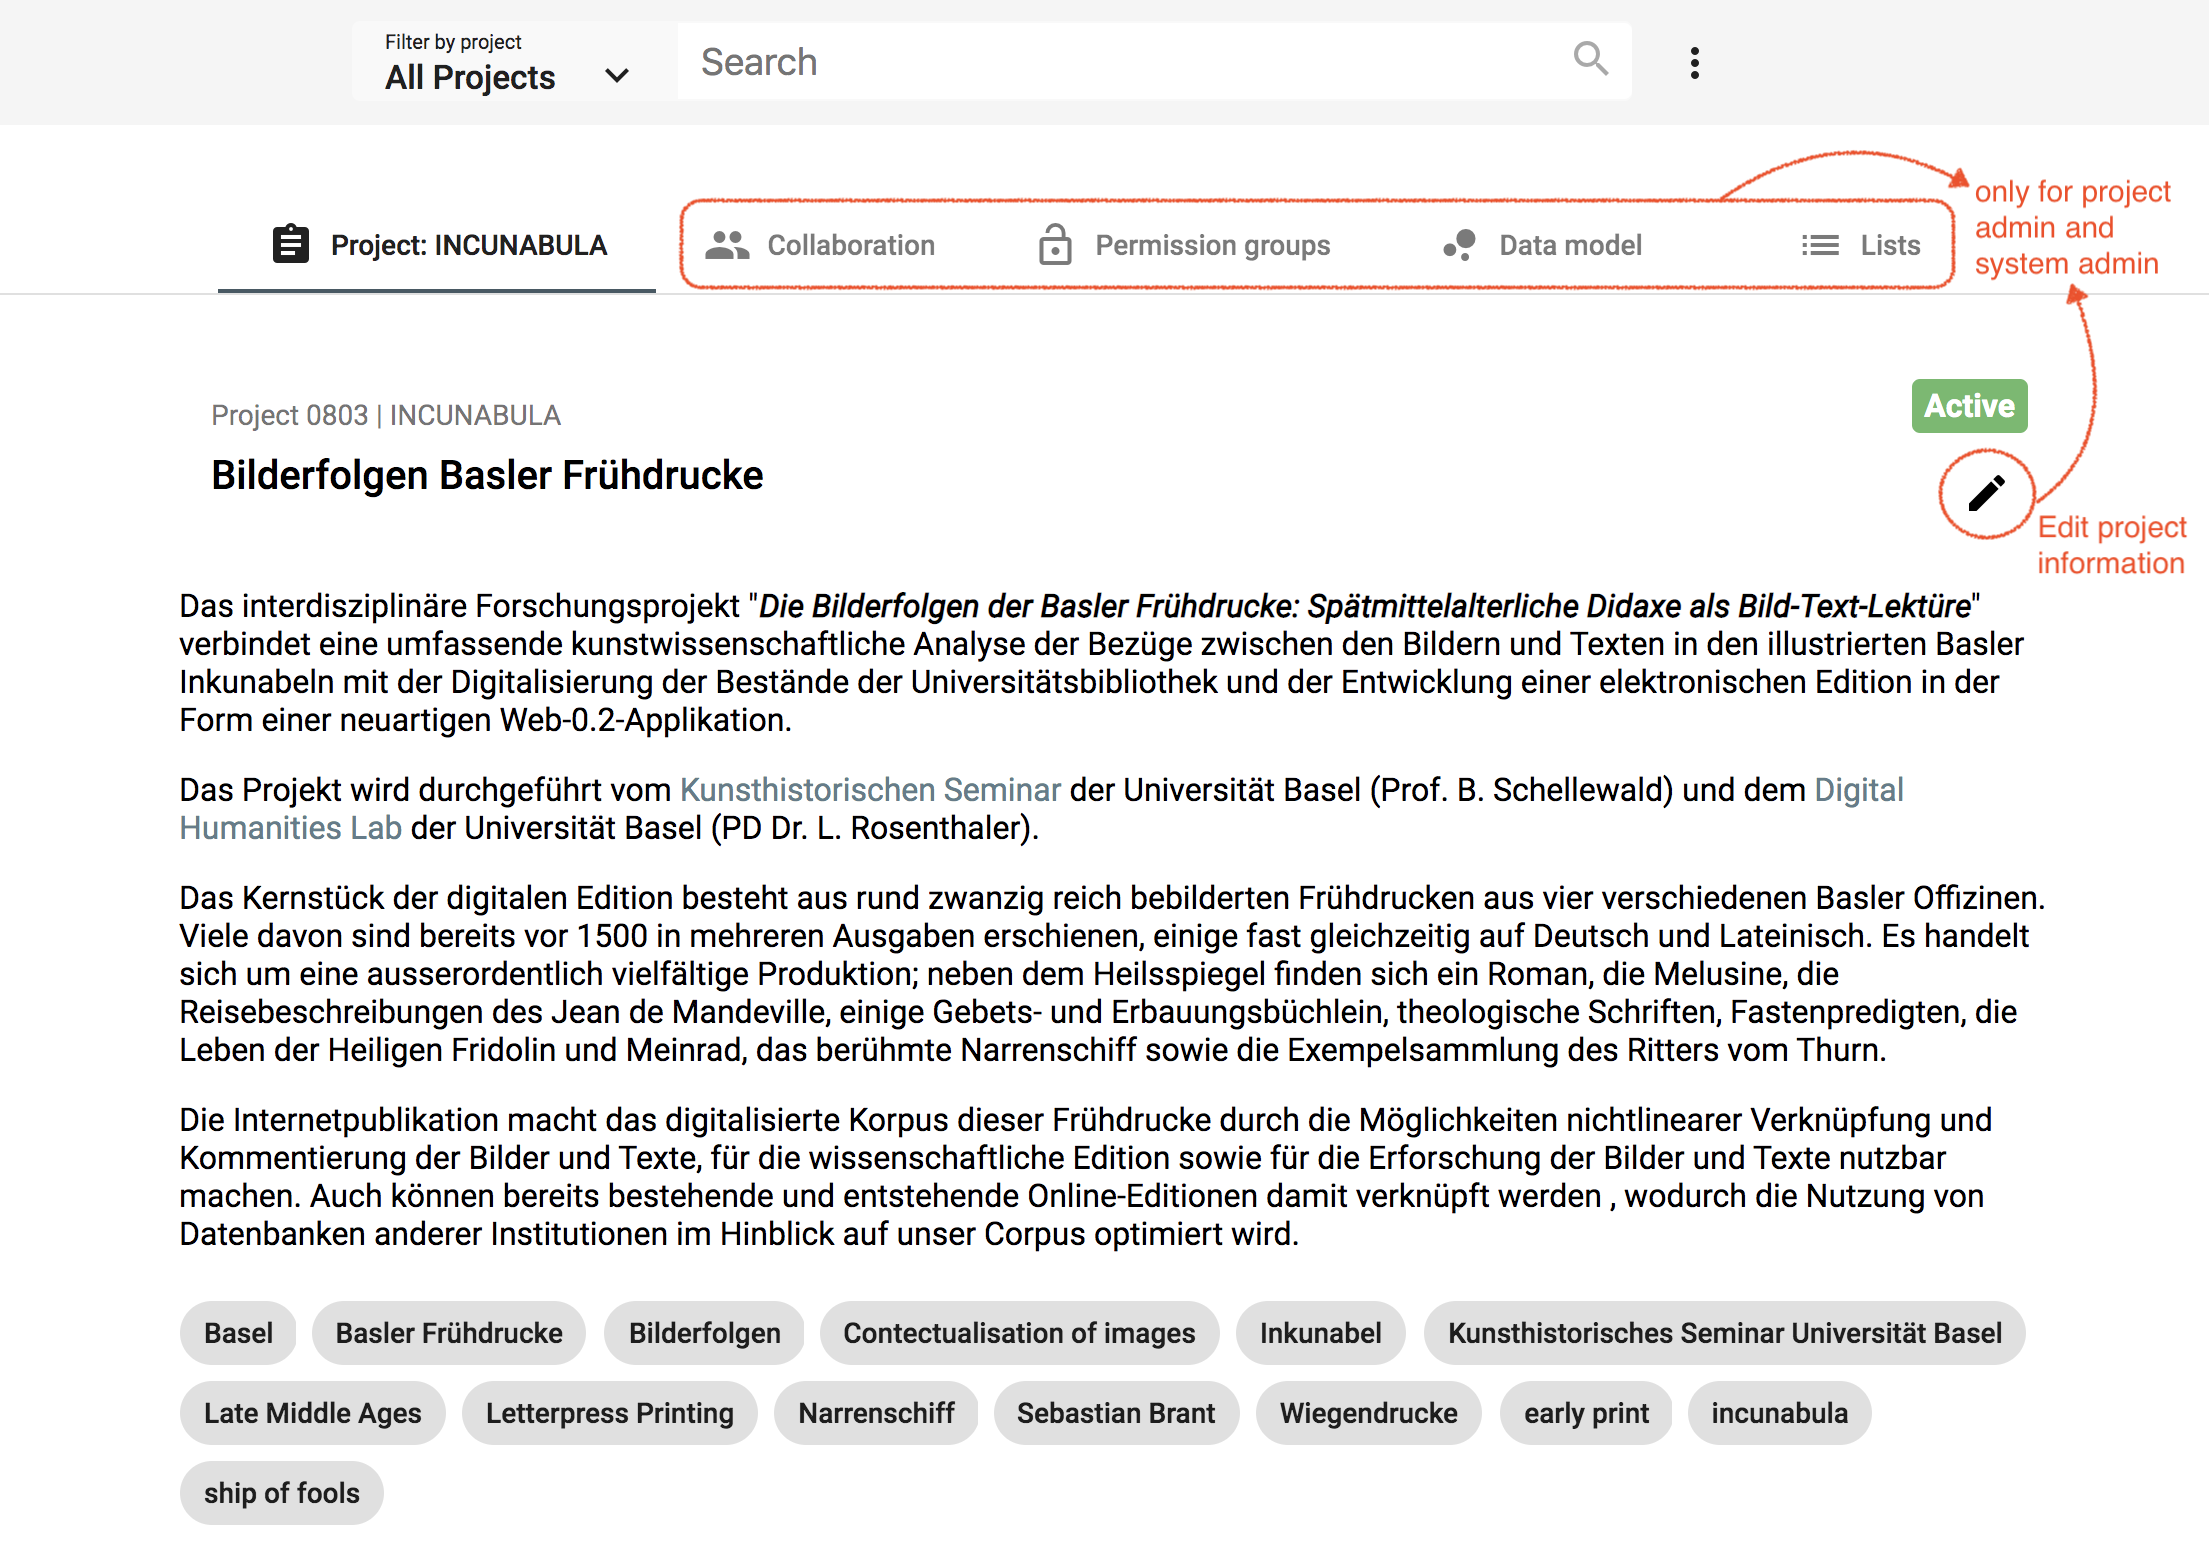
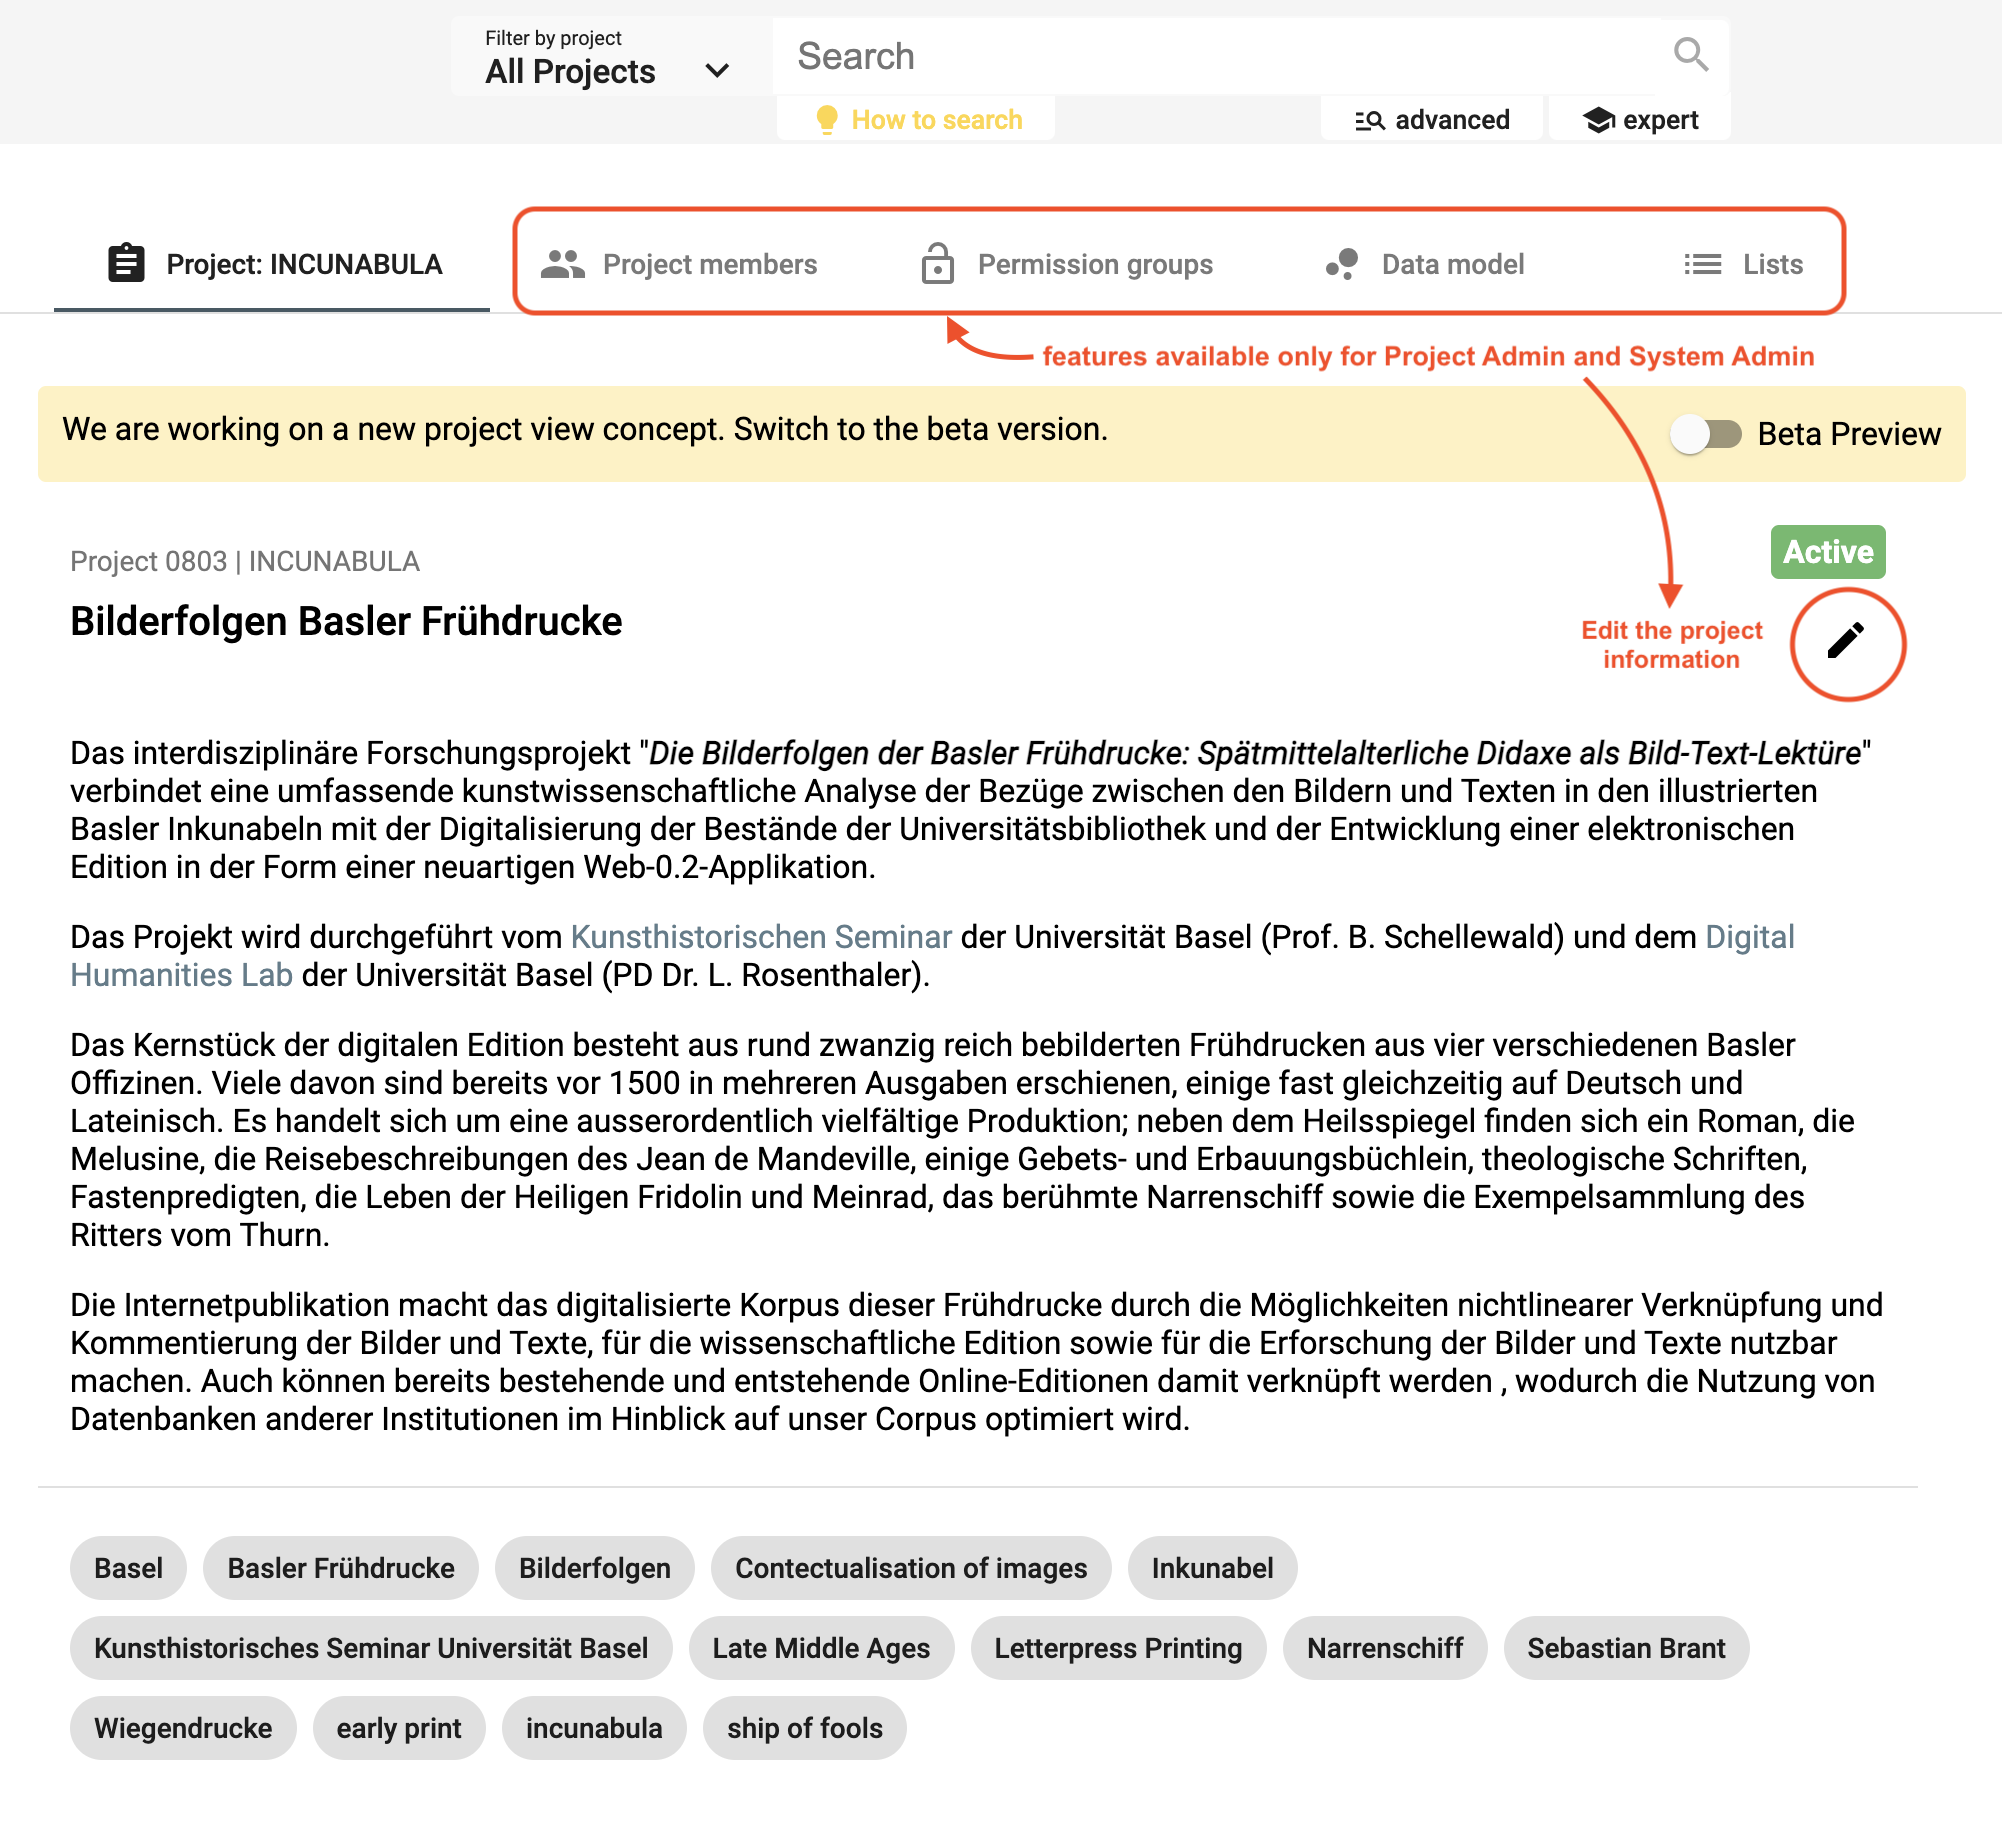
docs: Update the project section

Changed region(s): [[0.0, 0.0307, 0.991, 0.7985], [0.031, 0.8292, 0.9291, 0.9827], [0.1548, 0.0, 0.3716, 0.0614]]

diff --git a/docs/user-guide/project.md b/docs/user-guide/project.md
@@ -2,7 +2,7 @@
 
 ## Project
 
-Once you are [logged in](/user-guide/#login), the dashboard displays the list of your project(s). If you are a project administrator or a system administrator, you can edit the project information or archive your project from the project menu. Archived projects are stored in a list on your dashboard and they can be "reactivated" at any time.
+Once you are [logged in](https://docs.dasch.swiss/latest/DSP-APP/user-guide/#login), the dashboard displays the list of your project(s). If you are a project administrator or a system administrator, you can edit the project information or archive your project from the project menu. Archived projects are stored in a list on your dashboard and they can be "reactivated" at any time.
 
 ![Project list and project menu](../assets/images/dashboard.png)*<https://admin.dasch.swiss/dashboard> - By clicking on the project name, you get access to the full project information.*
 
@@ -16,21 +16,19 @@ As project administrator or system administrator, you can define your project, a
 
 ---
 
-## Collaboration
+## Project members
 
-As a system administrator, you can add users as project members and define their permissions roles: *Who is able to edit or to see your project data?* Data includes the research sources and their metadata. [Permissions](/user-guide/project/#permission-groups) can be set for the entire project or for single metadata fields. 
+As a system administrator, you can add users as project members. A user menu with different actions is accessible for each member of the project (the three-dot icon to the right side of the user line). The admin can grant another user as project admin (or remove this permission), edit user's information, change user's password if forgotten, and remove a user from the project.
 
-A user menu with different actions is accessible for each member of the project (link to the right side of the user line). The admin can appoint another user as project admin (or remove this permission), edit user's information, change user's password if forgotten, and remove a user.
+![Collaboration page](../assets/images/project-members.png)*<https://admin.dasch.swiss/project/0803/collaboration> - Project members page where project admin and system admin can add new user to the team.*
 
-![Collaboration page](../assets/images/project-collaboration.png)*<https://admin.dasch.swiss/project/0803/collaboration> - Collaboration page where project admin and system admin can add new user to the team.*
-
-> **_NOTE:_** **Permissions for project admins to add new users as project member will be implemented soon.**
+<!-- >> **_NOTE:_** **Permissions for project admins to add new users as project member will be implemented soon.** -->
 
 ---
 
 ## Data model
 
-The definition of the data model (*ontology*) is the most important step. The data model is indispensable for structuring your data. Our platform provides a tool for an easy creation of one or more project data models. First, you have to know which data and sources you want to work with. The data model can be flexible and customizable. 
+The definition of the data model (*ontology*) is the most important step. The data model is indispensable for structuring your data. Our platform provides a tool for an easy creation of one or more project data models. First, you have to know which data and resources you want to work with. The data model can be flexible and customizable.
 
 The question which you have to answer before you create your data model is **according to which criteria do you organize your data**? In this respect it may be useful to ask yourself:
 
@@ -38,7 +36,6 @@ The question which you have to answer before you create your data model is **acc
 - *What are the goals you want to achieve, which research questions do you want to answer?*
 
 As soon as you have come to a conclusion concerning the structure of your data, you're all set to create your data model.
-
 
 ### Create your data model
 
@@ -49,7 +46,6 @@ Go to your project, select the tab `Data model` (step 1) and click the button `N
 
 By clicking `New data model`, a dialog box opens:
 ![Define new data model.](../assets/images/Fig3.png)
-
 
 **Create data model**
 
@@ -207,18 +203,27 @@ o	photographs
 o	data about the person you interviewed
 o	location where the photograph was taken
 
-The following Diagram 1 shows the initial situation: 
-![Diagram 1: the initial situation.](../assets/images/Fig23.png)*Diagram 1: the initial situation.*
+The following Diagram 1 shows the initial situation:
+
+![Diagram 1: the initial situation.](../assets/images/Fig23.png)
+
+*Diagram 1: the initial situation.*
 
 The second step will be to consider the hierarchy of the data. How your hierarchy looks like depends on which criteria your data were organized and what your purposes are. It might even be possible that you don’t need a hierarchy as shown in Diagram 1.
 
 In our case, we know that the transcripts are linked to the audio-interviews, persons are linked to interviews and audio-interviews, photographs are linked to audio-interviews and transcripts plus locations are linked to the photographs.
 
 How the practical arrangement finally looks like depends on your purposes and preferences. For example we could choose to arrange the data with regards to their audio source as seen in Diagram 2:
-![Diagram 2: Focus on the audio-interview.](../assets/images/Fig24.png)*Diagram 2: Focus on the audio-interview.*
+
+![Diagram 2: Focus on the audio-interview.](../assets/images/Fig24.png)
+
+*Diagram 2: Focus on the audio-interview.*
 
 However, we can also prefer another visualization which focuses on the transcript (Diagram 3):
-![Diagram 3: Focus on the transcript.](../assets/images/Fig25.png)*Diagram 3: Focus on the transcript.*
+
+![Diagram 3: Focus on the transcript.](../assets/images/Fig25.png)
+
+*Diagram 3: Focus on the transcript.*
 
 We could think of many different hierarchies, lastly it depends on what serves your purposes best. Our next step will be to implement the hierarchy in Diagram 3 in our data model.
 
@@ -229,7 +234,7 @@ First, we create the resource classes that constitute the basic containers of ou
 ![Create resource classes.](../assets/images/Fig26.png)
 
 **2. Relate resource classes**
-According to our Diagram 3, we determined the transcript to be the centre of the hierarchy. In the transcript, the photographs are mentioned, the interviewed person is linked to the transcript and the audio-interview as the raw source is linked to the transcript too. Thus, we have to add photograph, audio-interview and person as properties to the transcript. 
+According to our Diagram 3, we determined the transcript to be the centre of the hierarchy. In the transcript, the photographs are mentioned, the interviewed person is linked to the transcript and the audio-interview as the raw resource is linked to the transcript too. Thus, we have to add photograph, audio-interview and person as properties to the transcript. 
 
 In the box of *Transcript* click on `+ Add property`:
 ![Add property to resource class.](../assets/images/Fig27.png)
